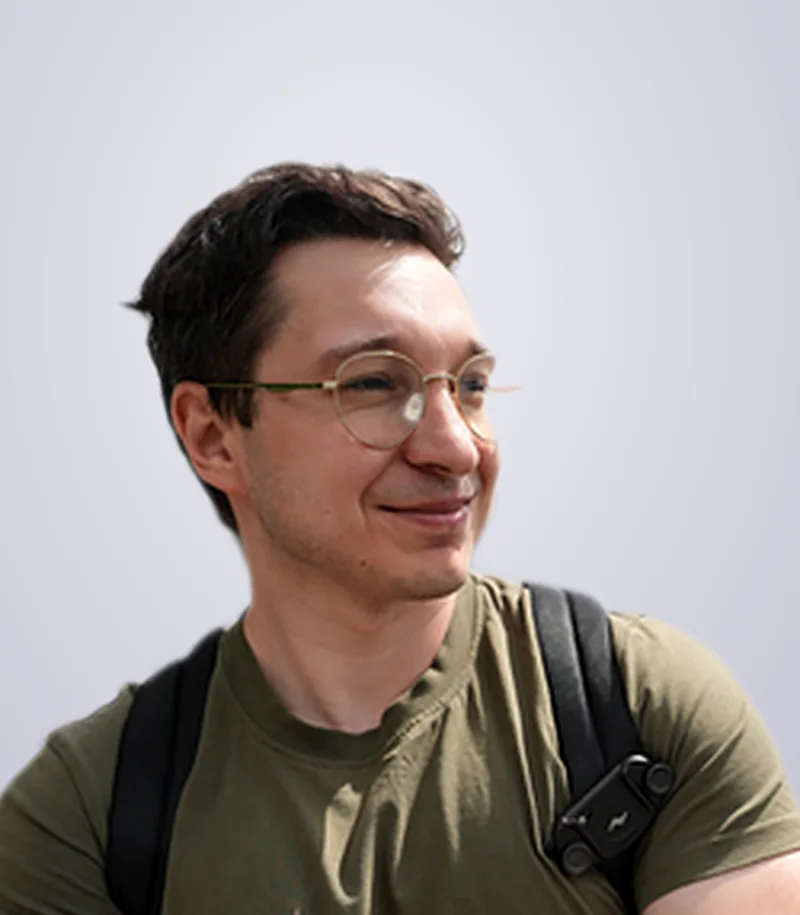
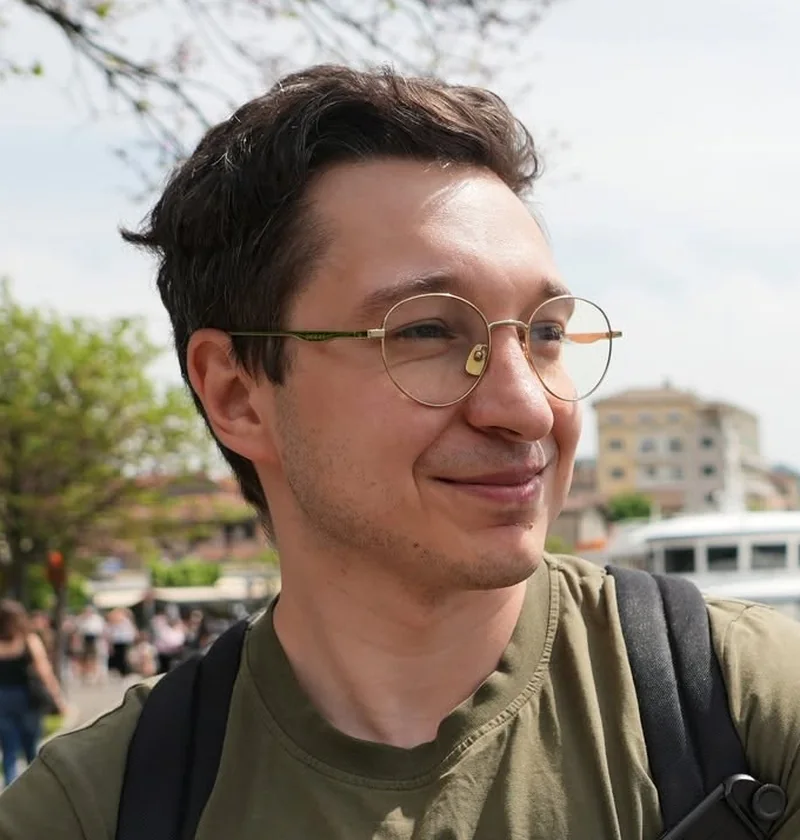
Shorter About page with a sharper photo
- New high-resolution photo with the original background, cropped closer
  on the face
- Remove location/languages lines, the career timeline, the Java bootcamp
  and languages cards, the 'How I work' block (same as the homepage) and
  three of the seven highlights
- Prune CSS for removed sections

Claude-Session: https://claude.ai/code/session_01WzSpZg8dKLqeo8UJKinRAL

diff --git a/app/about/page.tsx b/app/about/page.tsx
@@ -1,5 +1,5 @@
 import type { Metadata } from "next";
-import { Award, Building2, Check, ExternalLink, GraduationCap, Handshake, Languages, MapPin, MessageCircle, UserRoundCheck } from "lucide-react";
+import { Award, Building2, Check, ExternalLink, GraduationCap } from "lucide-react";
 import { BrandAmbient } from "../brand-ambient";
 import { SiteFooter } from "../site-footer";
 import { SiteHeader } from "../site-header";
@@ -43,55 +43,11 @@ const highlights = [
   "Ran the entire recruitment function as the sole recruiter for an AWS consulting company, covering the US and EMEA.",
   "Closed three executive hires in my first month at ClearScale.",
   "Closed 30+ hires in my first year at Link Group, one of Poland's largest recruitment agencies.",
-  "Won the award for best hiring performance in a team of eight recruiters at ProData Consult.",
-  "Designed a hiring process that was rolled out across every external hiring pipeline.",
-  "Trained three interns, all of whom went on to become senior recruiters.",
-];
-
-const career = [
-  {
-    years: "2016",
-    company: "Diebold Nixdorf",
-    role: "IT Helpdesk Analyst",
-    copy: "Network and incident support for customers in the UK and Australia: WAN/LAN, routers, firewalls and Windows Server tooling. The technical grounding behind every brief I take today.",
-  },
-  {
-    years: "2016–2017",
-    company: "Link Group",
-    role: "IT Research Consultant",
-    copy: "Direct search for IT talent across Poland and Europe, closing more than 30 hires in my first year.",
-  },
-  {
-    years: "2017–2021",
-    company: "ProData Consult",
-    role: "Recruitment Consultant → Senior Consultant → Recruitment Manager",
-    copy: "End-to-end recruitment for backend, frontend, full stack, DevOps, data and leadership roles. Market mapping, compliance checks and managing a team of consultants.",
-  },
-  {
-    years: "2021–2023",
-    company: "ClearScale",
-    role: "Senior IT Technical Recruiter",
-    copy: "International hiring for an AWS consultancy: building cloud teams from scratch in EMEA, LATAM and the US, and bringing in tools such as Calendly to speed up the process.",
-  },
-  {
-    years: "2024–2025",
-    company: "ClearScale",
-    role: "Lead IT Technical Recruiter",
-    copy: "Sole recruiter for the company, owning sourcing, screening, interviewing and onboarding for data engineers, full stack, DevOps, AI/ML, architects and executive roles.",
-  },
-  {
-    years: "2026",
-    company: "Craftsphere Talent",
-    role: "Founder",
-    copy: "A direct, senior-led recruitment model for specialist technology hiring with a better candidate experience.",
-  },
 ];
 
 const credentials = [
   { title: "BSc Information Technology", detail: "University of Łódź, specialisation: IT in business", icon: GraduationCap },
   { title: "AWS Certified Cloud Practitioner", detail: "Amazon Web Services, 2024", icon: Award },
-  { title: "Junior Java Developer bootcamp", detail: "Kodilla: Java 8, Spring, JUnit, SQL and Hibernate", icon: Award },
-  { title: "Polish and English", detail: "Native Polish, advanced English (C1)", icon: Languages },
 ];
 
 const tools = ["LinkedIn Recruiter", "Greenhouse", "Loxo", "Recruitee", "Zoho Recruit", "Calendly", "Jira", "HeroHunt", "Hiretual", "ChatGPT, Claude, Gemini"];
@@ -103,24 +59,6 @@ const roles = [
   "DevOps, cloud and solutions architects",
   "Network engineering and information security",
   "Team leads, directors and C-level",
-];
-
-const principles = [
-  {
-    title: "Direct cooperation",
-    copy: "You work directly with the recruiter handling your search, from the first brief to the accepted offer.",
-    icon: Handshake,
-  },
-  {
-    title: "Clear communication",
-    copy: "Regular updates, honest market feedback and a simple process keep everyone aligned and moving.",
-    icon: MessageCircle,
-  },
-  {
-    title: "Candidate experience",
-    copy: "Every candidate receives respectful communication that represents your company in the right way.",
-    icon: UserRoundCheck,
-  },
 ];
 
 export default function AboutPage() {
@@ -139,10 +77,6 @@ export default function AboutPage() {
               studied IT and worked in IT support, so I understand the briefs I take and speak the
               language of the engineers I hire, from individual contributors to C-level leaders.
             </p>
-            <p className="page-lead">
-              I&apos;ve hired for global financial institutions, FinTechs, AWS consultancies and
-              startups across EMEA, the US and LATAM.
-            </p>
             <div className="intro-actions">
               <a className="button button-primary" href="/#contact" data-analytics-event="contact_click" data-contact-method="form" data-contact-placement="about_hero">
                 Discuss a hiring need
@@ -154,13 +88,11 @@ export default function AboutPage() {
           </div>
 
           <aside className="profile" aria-label="Konrad Smuga">
-            <img className="profile-photo" src="/konrad-smuga.webp" width="800" height="915" alt="Konrad Smuga, smiling, wearing glasses" />
+            <img className="profile-photo" src="/konrad-smuga.webp" width="800" height="840" alt="Konrad Smuga" />
             <div className="profile-body">
               <h2>Konrad Smuga</h2>
               <p>Senior Tech Recruiter &amp; Talent Partner</p>
               <ul>
-                <li><MapPin size={16} aria-hidden="true" /> Based in Warsaw, Poland</li>
-                <li><Languages size={16} aria-hidden="true" /> Polish (native), English (C1)</li>
                 <li><Check size={16} aria-hidden="true" /> Permanent, contract and executive search</li>
               </ul>
             </div>
@@ -191,35 +123,11 @@ export default function AboutPage() {
         </div>
       </section>
 
-      <section className="block" aria-labelledby="story-title">
-        <div className="shell story">
-          <div className="story-copy">
-            <h2 id="story-title">From IT support to running the hiring function.</h2>
-            <p>
-              Agency recruitment taught me direct search and pace. In-house work taught me what
-              hiring managers need. Both shaped how Craftsphere Talent works.
-            </p>
-          </div>
-          <ol className="timeline">
-            {career.map(({ years, company, role, copy }) => (
-              <li key={`${years}-${role}`}>
-                <time>{years}</time>
-                <div>
-                  <h3>{company}</h3>
-                  <p className="timeline-role">{role}</p>
-                  <p>{copy}</p>
-                </div>
-              </li>
-            ))}
-          </ol>
-        </div>
-      </section>
-
       <section className="block" aria-labelledby="creds-title">
         <div className="shell">
           <header className="screen-head">
             <h2 id="creds-title">Technical foundation.</h2>
-            <p>An IT degree, cloud certification and hands-on programming basics: enough to read a stack, ask the right questions and assess technical fit early.</p>
+            <p>An IT degree and AWS certification: enough to read a stack, ask the right questions and assess technical fit early.</p>
           </header>
           <div className="creds">
             {credentials.map(({ title, detail, icon: Icon }) => (
@@ -256,24 +164,6 @@ export default function AboutPage() {
               {["EMEA", "US", "LATAM"].map((market) => <li key={market}>{market}</li>)}
             </ul>
           </div>
-        </div>
-      </section>
-
-      <section className="block" aria-labelledby="principles-title">
-        <div className="shell">
-          <header className="screen-head">
-            <h2 id="principles-title">How I work.</h2>
-            <p>Close cooperation, practical advice and a strong experience for hiring teams and candidates alike.</p>
-          </header>
-          <div className="offer-grid">
-            {principles.map(({ title, copy, icon: Icon }) => (
-              <article className="offer" key={title}>
-                <h3><Icon size={22} aria-hidden="true" /> {title}</h3>
-                <p>{copy}</p>
-              </article>
-            ))}
-          </div>
-          <p className="outside-work">Outside work: drums, board games, Eastern cultures and whatever is new in AI.</p>
         </div>
       </section>
 

diff --git a/app/globals.css b/app/globals.css
@@ -1500,9 +1500,8 @@ body { background: var(--c-paper); }
 .profile-body ul { margin: 0; padding: 0; display: grid; gap: 9px; list-style: none; }
 .profile-body li { display: flex; align-items: center; gap: 9px; color: #3d3e57; font-size: 15px; font-weight: 600; }
 .profile-body li svg { color: var(--c-teal); }
-.story { display: grid; grid-template-columns: .8fr 1.2fr; gap: 64px; align-items: start; }
-.story-copy { position: sticky; top: calc(var(--header-space) + 24px); }
-.story-copy p, .scope p { max-width: 30em; margin: 20px 0 0; color: var(--c-muted); font-size: 18px; line-height: 1.65; }
+
+.scope p { max-width: 30em; margin: 20px 0 0; color: var(--c-muted); font-size: 18px; line-height: 1.65; }
 .timeline { margin: 0; padding: 0; list-style: none; border-left: 2px solid var(--c-line); }
 .timeline li { padding: 0 0 30px 32px; display: grid; grid-template-columns: 110px 1fr; gap: 20px; position: relative; }
 .timeline li:last-child { padding-bottom: 0; }
@@ -1527,8 +1526,8 @@ body { background: var(--c-paper); }
 .cta-band-actions > a:last-child { color: #bfeaf2; font-size: 15px; font-weight: 650; text-decoration: underline; text-underline-offset: 4px; }
 
 @media (max-width: 960px) {
-  .talk, .cand, .about-intro-grid, .story, .scope { grid-template-columns: 1fr; gap: 32px; }
-  .story-copy { position: static; }
+  .talk, .cand, .about-intro-grid, .scope { grid-template-columns: 1fr; gap: 32px; }
+  
   .about-intro-grid .profile { max-width: 460px; }
   .company { grid-template-columns: 1fr; gap: 14px; }
 }
@@ -1708,10 +1707,7 @@ html.motion-paused *::after { animation-play-state: paused !important; }
 }
 .highlights li svg { margin-top: 2px; color: var(--c-teal); }
 
-.timeline .timeline-role { margin: 4px 0 0; color: var(--c-indigo); font-size: 15px; font-weight: 650; }
-.timeline .timeline-role + p { margin-top: 6px; }
-
-.creds { display: grid; grid-template-columns: repeat(4, minmax(0, 1fr)); gap: 14px; }
+.creds { display: grid; grid-template-columns: repeat(2, minmax(0, 1fr)); gap: 14px; max-width: 760px; }
 .creds article { padding: 24px; border: 1px solid var(--c-line); border-radius: 18px; background: #fff; }
 .creds svg { color: var(--c-violet); }
 .home .creds h3 { margin: 14px 0 6px; color: var(--c-ink); font-size: 21px; line-height: 1.2; }
@@ -1721,8 +1717,6 @@ html.motion-paused *::after { animation-play-state: paused !important; }
 .role-list { margin: 0 0 26px; padding: 0; display: grid; gap: 10px; list-style: none; }
 .role-list li { display: flex; align-items: flex-start; gap: 10px; color: #2f2e48; font-size: 17px; line-height: 1.45; }
 .role-list svg { flex: none; margin-top: 3px; color: var(--c-teal); }
-
-.outside-work { margin: 28px 0 0; color: var(--c-muted); font-size: 16px; }
 
 @media (max-width: 960px) {
   .highlights { grid-template-columns: 1fr; gap: 24px; }
